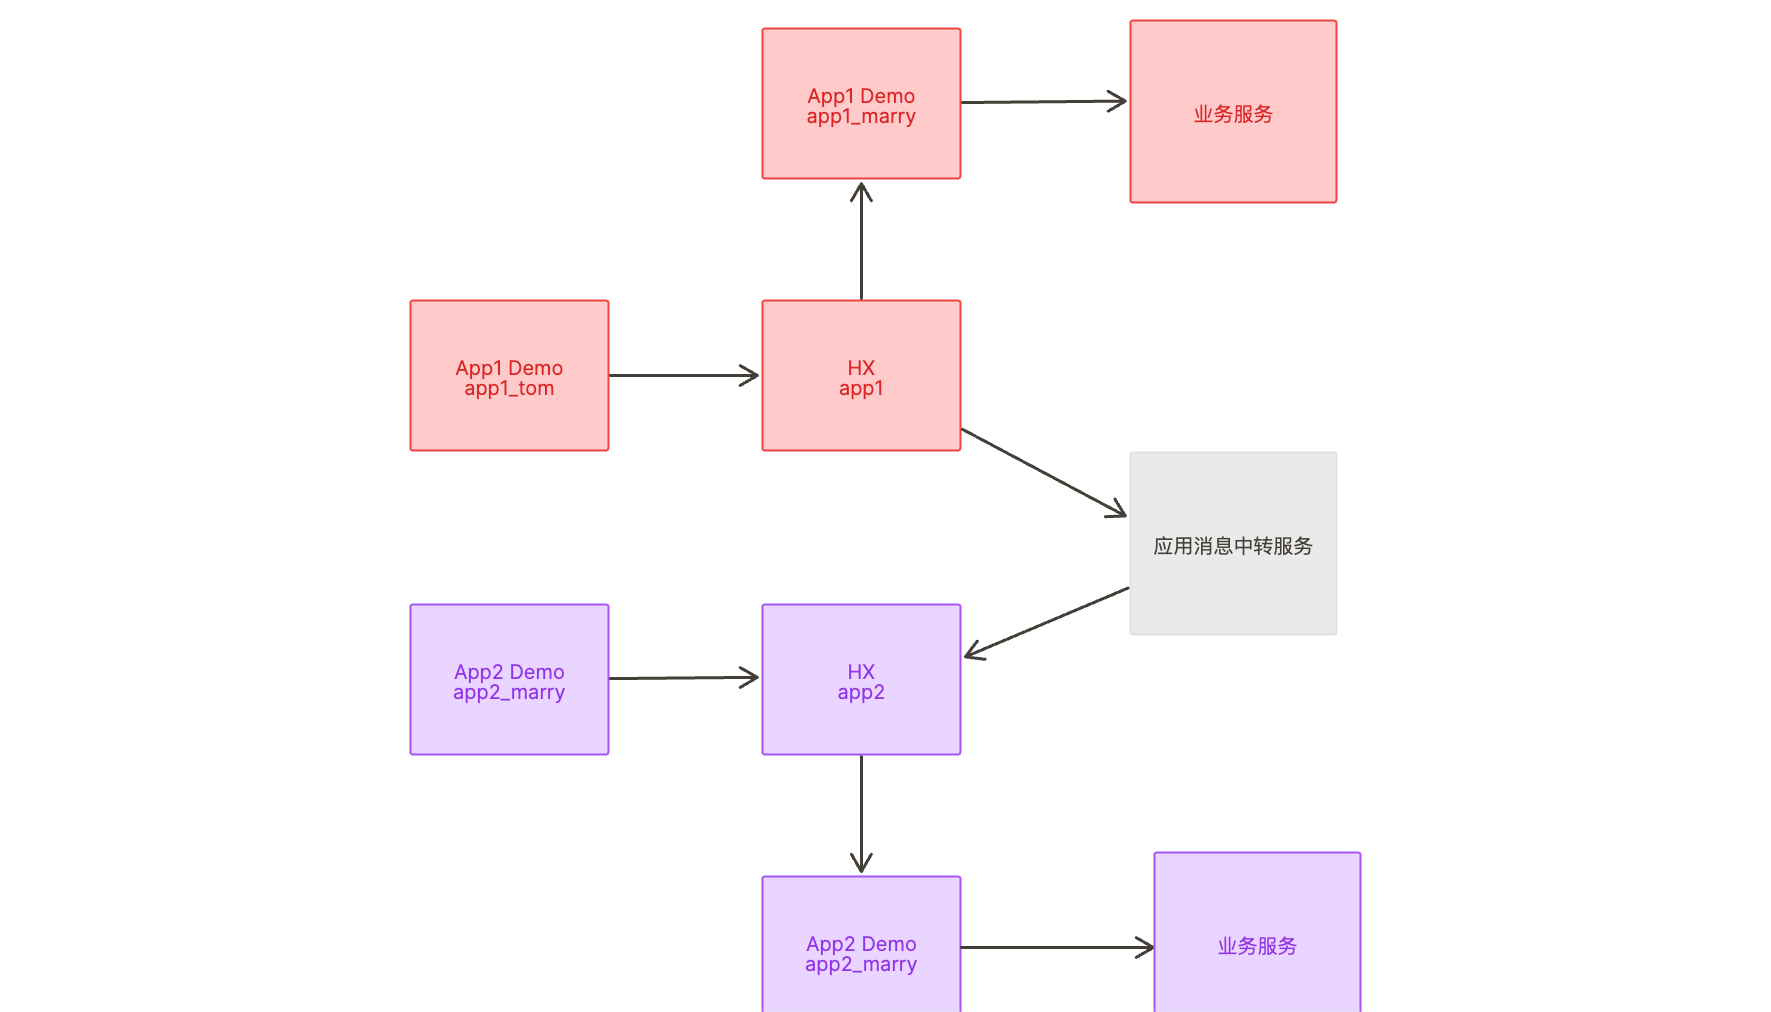
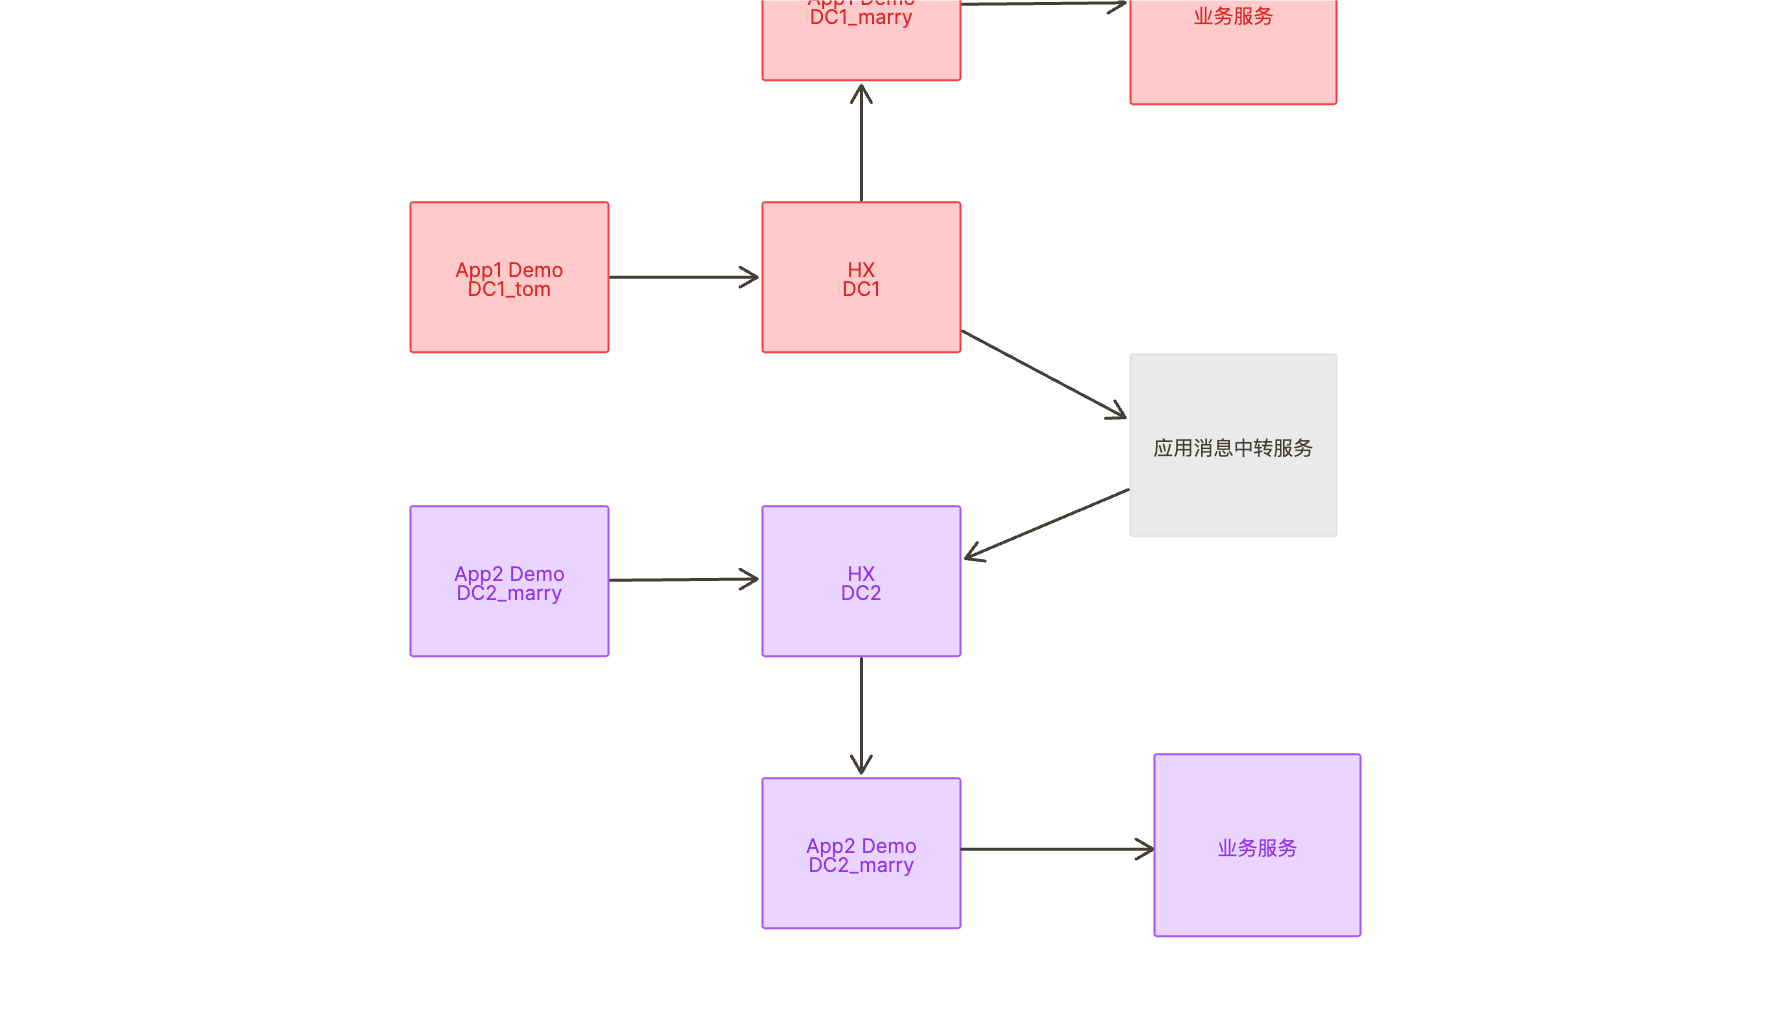
add doc for private message

diff --git a/docs/private_msg.md b/docs/private_msg.md
@@ -1,0 +1,40 @@
+## 单聊消息的打通
+
+![单聊消息](./img/msg_transfer.png)
+
+目标： 数据中心1的用户能够跟用户中心2的账号完成一对一的消息通信
+
+申请appkey按照预先定义的方式
+
+app1：dc1
+
+app2: dc2
+
+userId: dc1_tom, dc2_marry
+
+核心解决的点：
+1. appkey级别能够识别对应的数据中心
+2. 用户级别能够识别对应的数据中心
+
+### 过程详解
+
+- dc1_tom发送消息给dc2_marry的账号
+
+- 通过配置hx1的回调，appServer1接收到该消息，判断该消息为跨应用的消息
+    
+    由于延时没有特别的要求，此处可以通过发送后的回调，既不影响发送者的发消息体验，也能实现相应的功能
+
+- appServer1将消息直接转发给hx2的服务，
+
+    消息的内容需要进行适当的修改
+
+    appkey从当前的app1变更为app2
+
+    经过上述的变更，实现了消息从dc1到dc2的转变，又可以通过app1和app2来达到区分不同应用的目的
+
+### 后续平台级支持
+
+
+appkey: ${dc}#${org_name}#${app_name}
+
+userid: ${dc}_${userid}

diff --git a/README.md b/README.md
@@ -37,13 +37,10 @@
 - GroupMetaData：群组的元数据信息
 
 ### 发送消息
-	- 核心过程如下所示
-		- app1_1_tom发送消息给app1_2_alice的账号
-		  logseq.order-list-type:: number
-		- 通过配置的发送前回调，appServer1接收到该消息，判断该消息为跨应用的消息
-		  logseq.order-list-type:: number
-		- appServer1将消息直接转发给hx2的服务，信息修改为app2_1_tom发送给app2_2_alice的消息
-		  logseq.order-list-type:: number
+- 核心过程如下所示
+  - app1_1_tom发送消息给app1_2_alice的账号
+  - 通过配置的发送前回调，appServer1接收到该消息，判断该消息为跨应用的消息
+  - appServer1将消息直接转发给hx2的服务，信息修改为app2_1_tom发送给app2_2_alice的消息
 
 ### 添加好友
 - 核心过程如下所示
